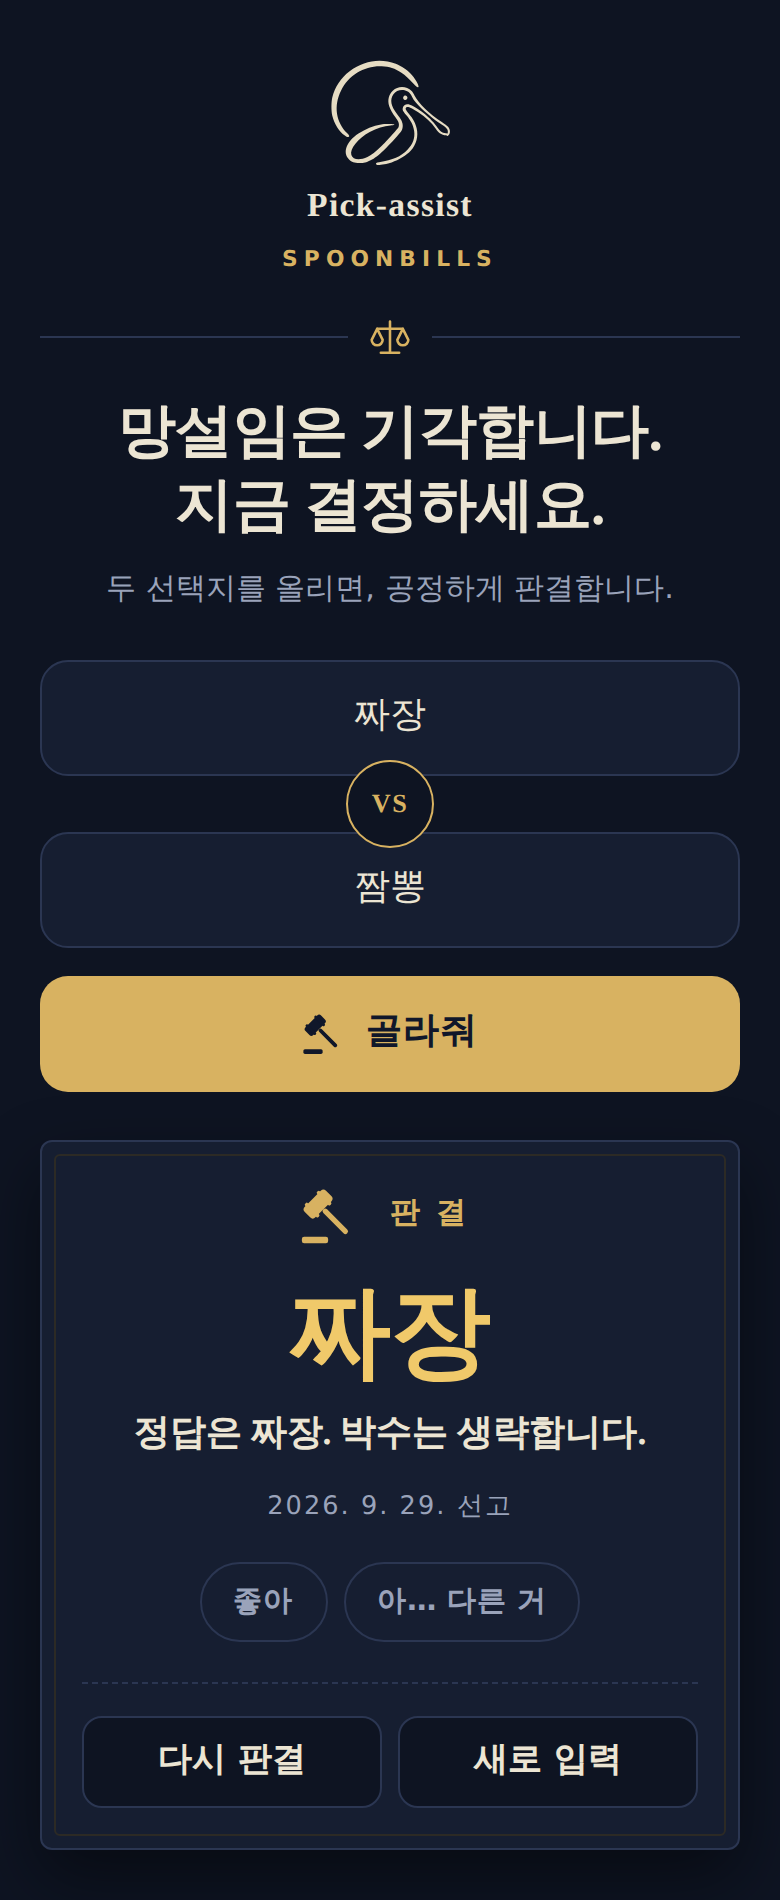
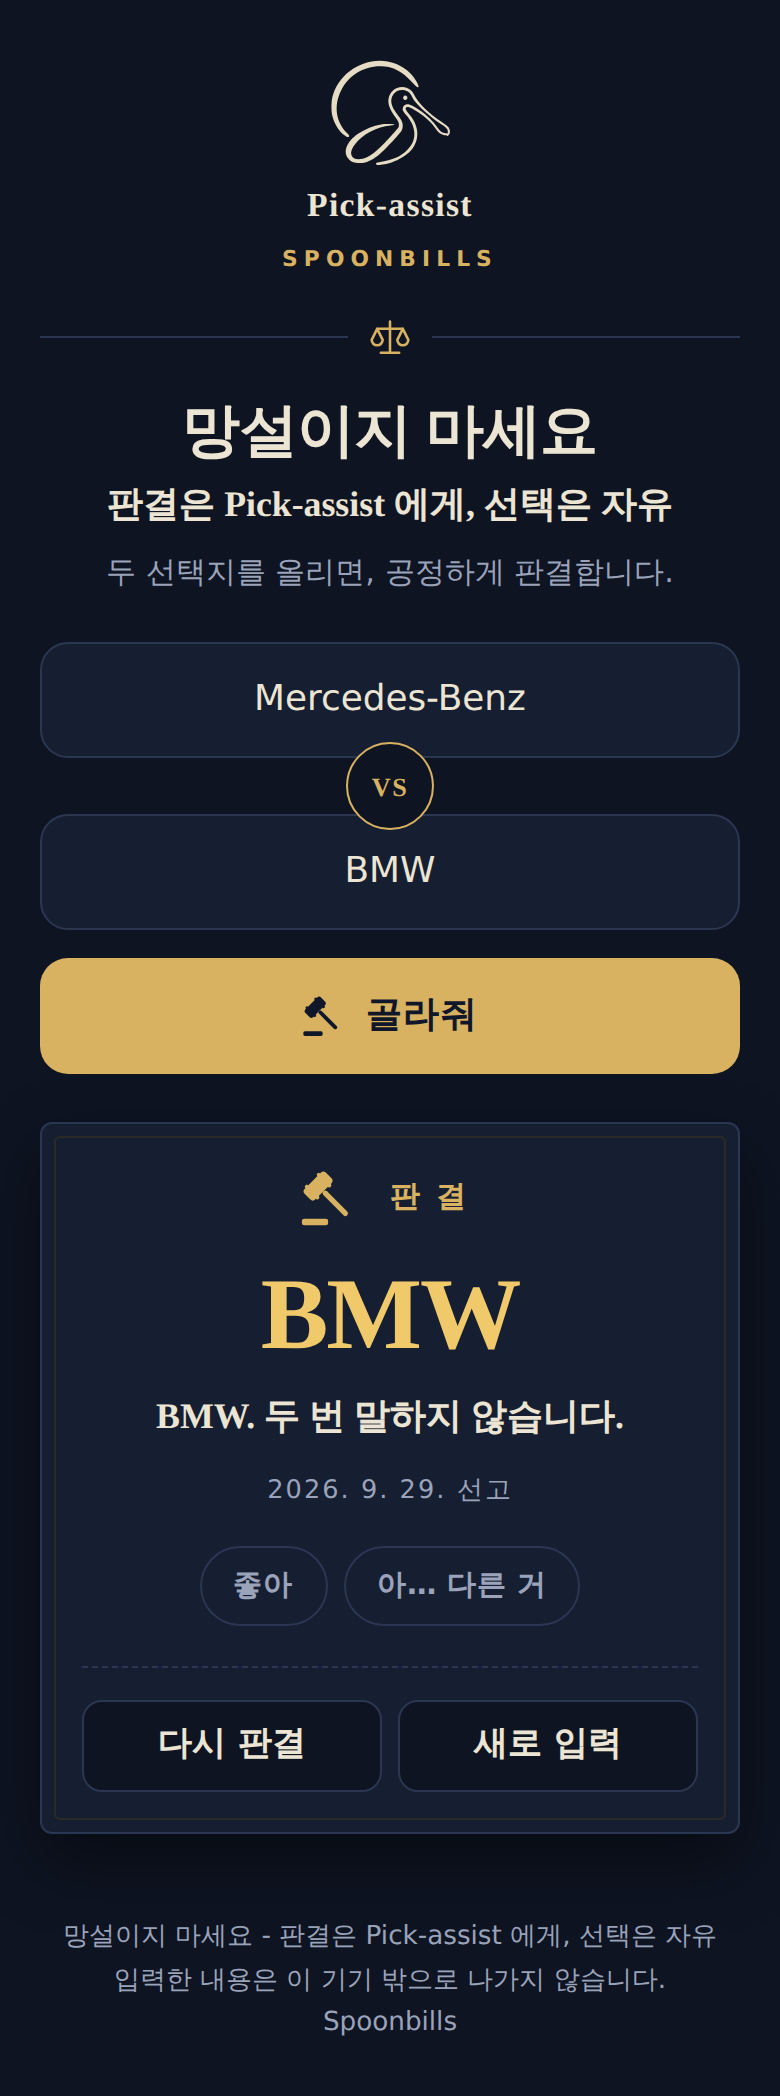
Use Mercedes-Benz vs BMW as the example choices
짜장 vs 짬뽕 undersold the tool; a car-brand dilemma shows it handles
real, weightier choices. Updates the input placeholders, README usage
examples, and the README screenshots (one verdict for each side).

Claude-Session: https://claude.ai/code/session_014ogcCUh2FcYaSCPAqny55n

Changed region(s): [[0.0308, 0.0311, 0.9538, 0.9937], [0.1846, 0.6521, 0.3077, 0.6832], [0.9231, 0.3416, 0.9538, 0.4037]]

diff --git a/index.html b/index.html
@@ -615,7 +615,7 @@
           id="choice-a"
           class="input"
           type="text"
-          placeholder="짜장"
+          placeholder="Mercedes-Benz"
           maxlength="60"
           enterkeyhint="next"
           autocapitalize="off"
@@ -628,7 +628,7 @@
           id="choice-b"
           class="input"
           type="text"
-          placeholder="짬뽕"
+          placeholder="BMW"
           maxlength="60"
           enterkeyhint="go"
           autocapitalize="off"
